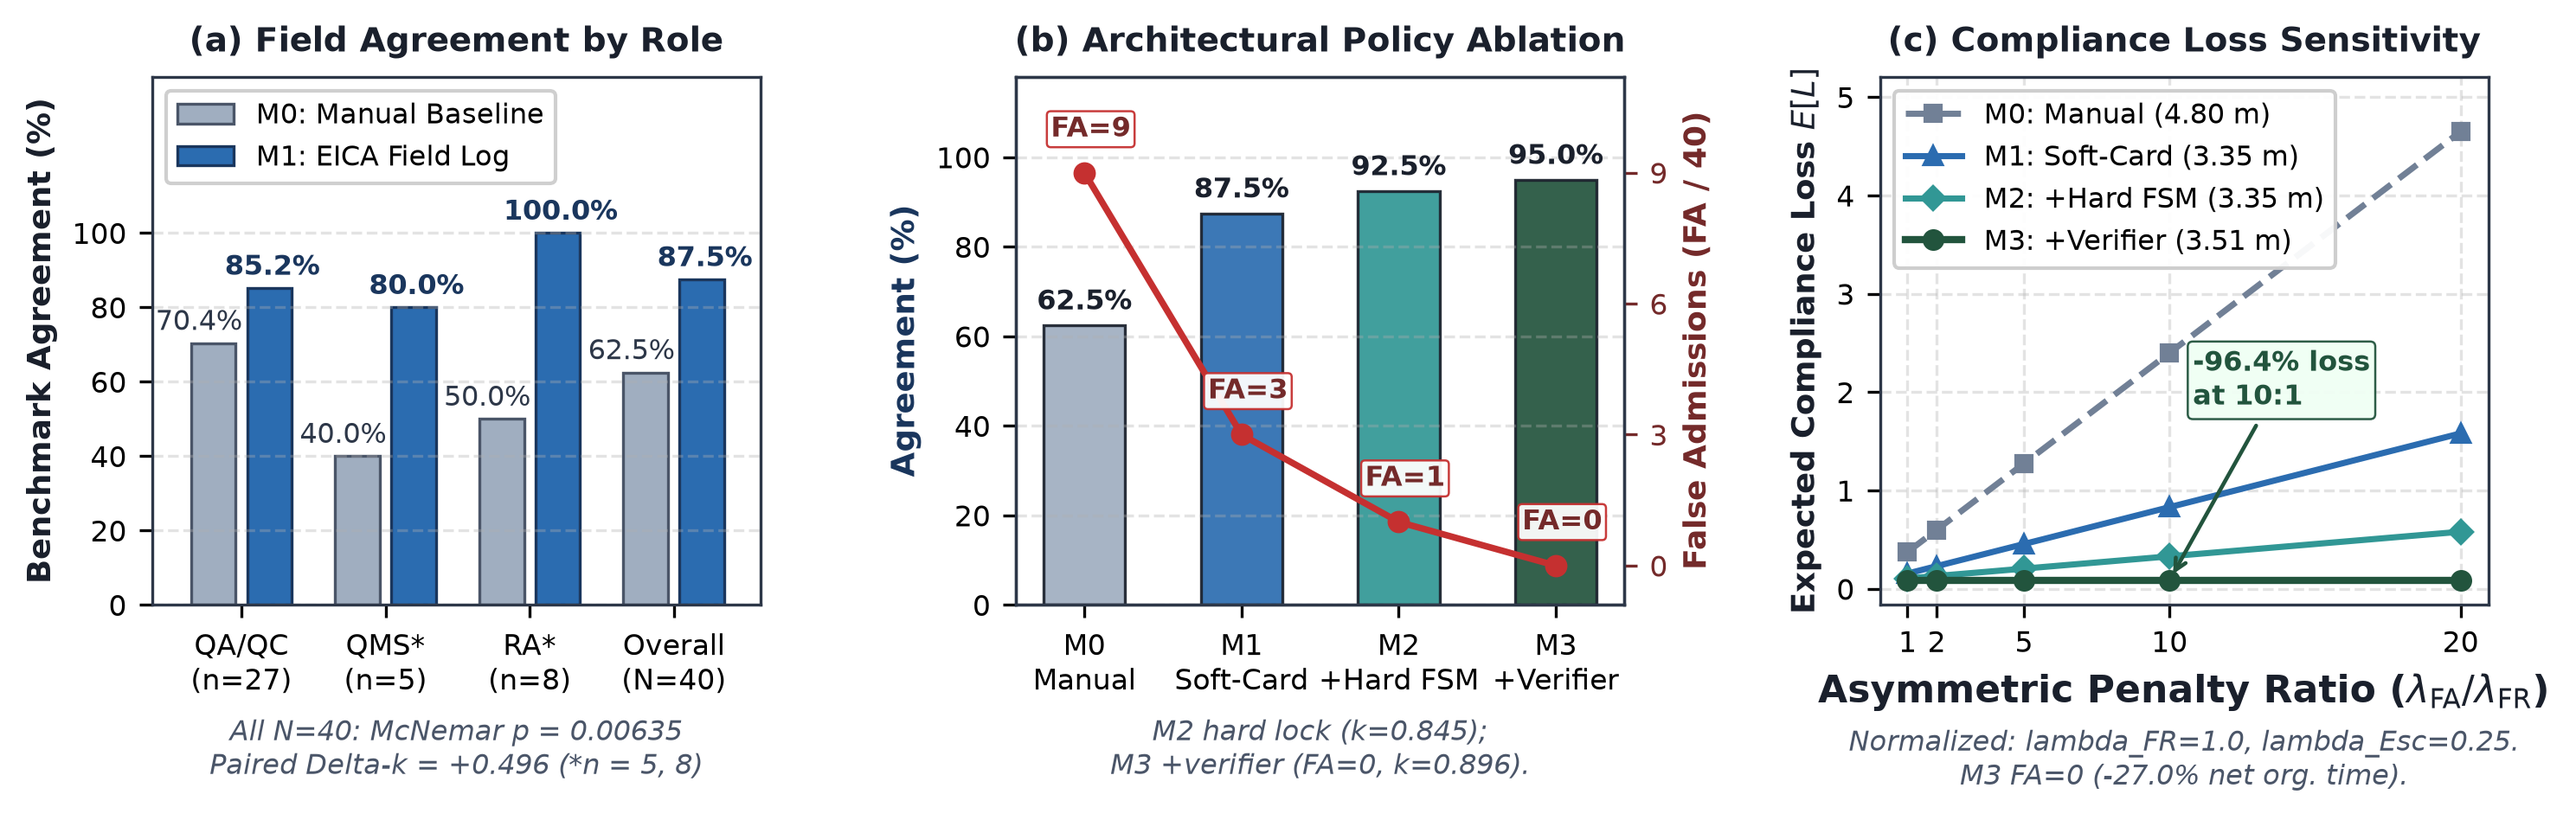
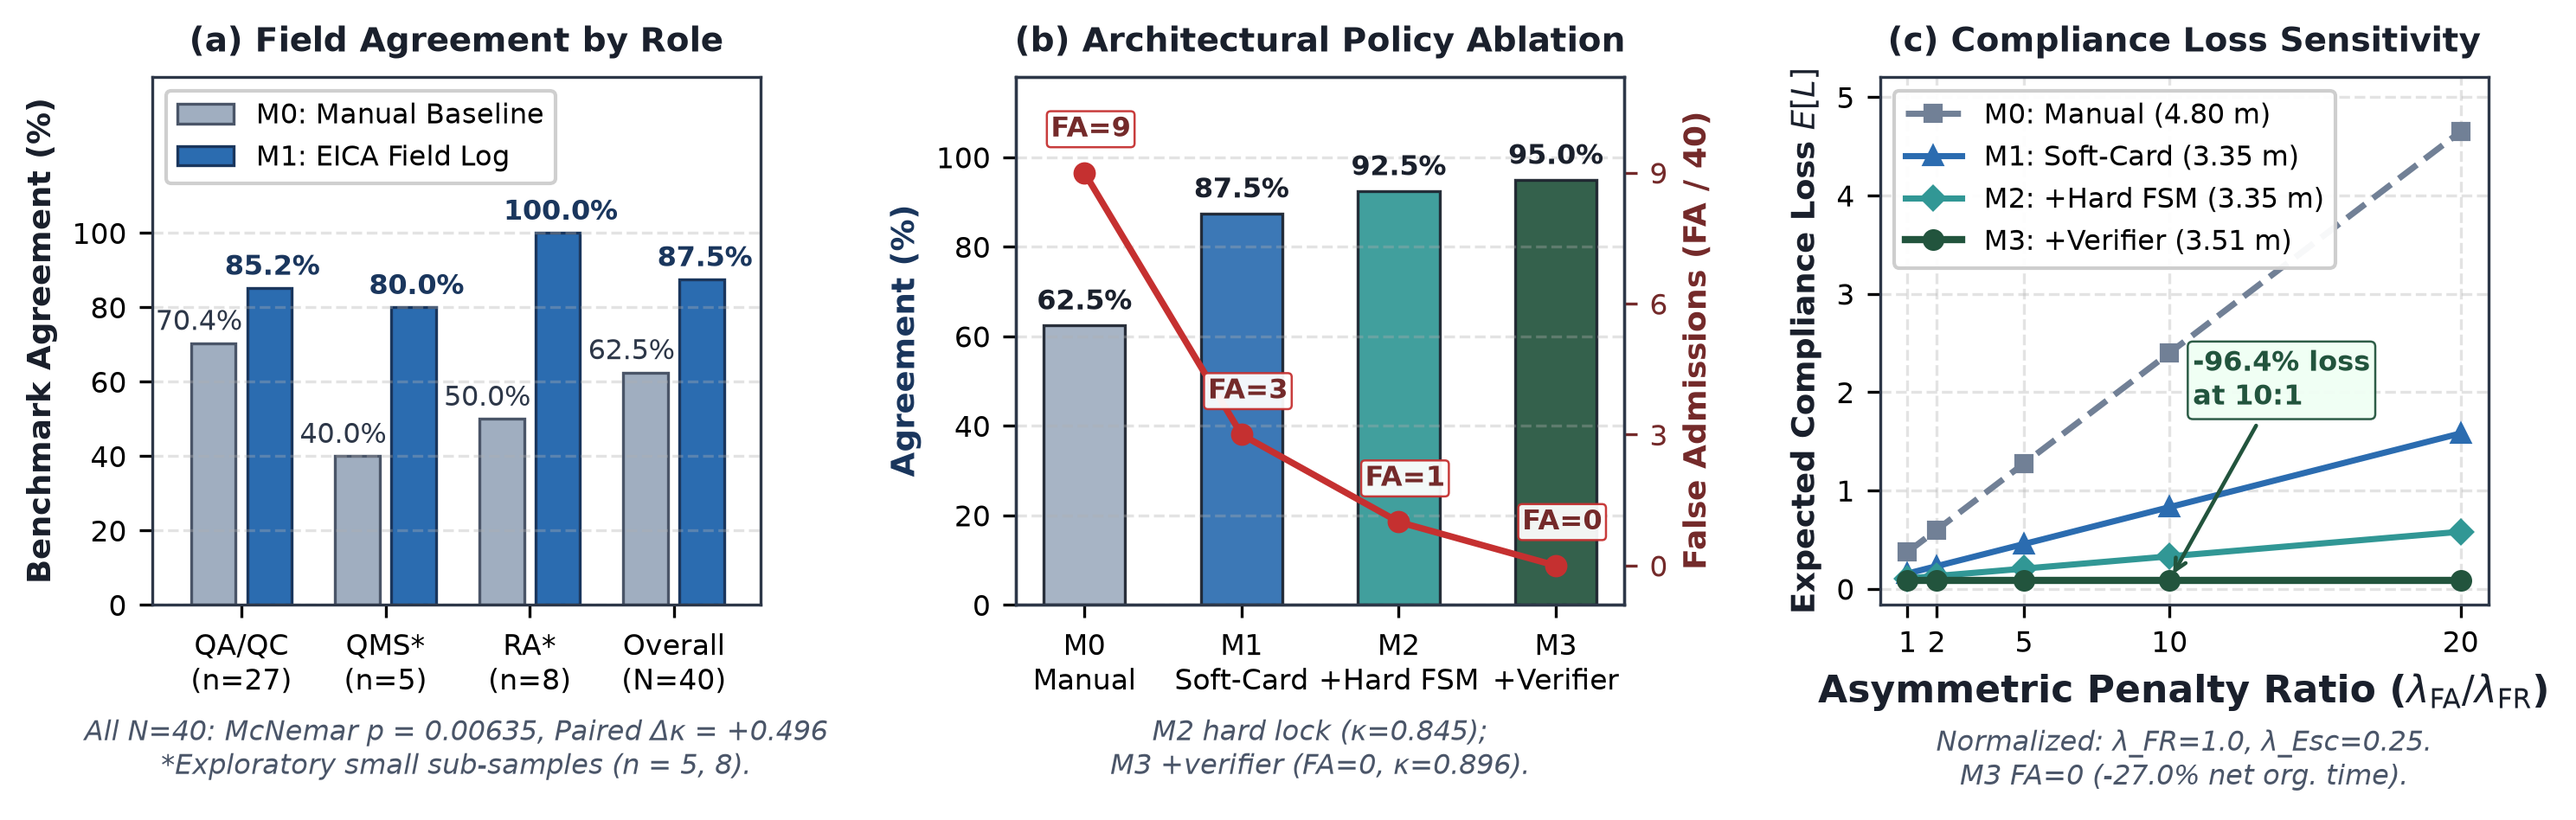
Fix figure annotations (M76/N93), Proposition 1 proof (N94), standalone vllm_config path (N95), and paper_9p/ refs in code

Changed region(s): [[0.0312, 0.8565, 0.3124, 0.9483], [0.7185, 0.8871, 0.8435, 0.9177], [0.8747, 0.8871, 0.9684, 0.9177]]

diff --git a/tests/e2e_suite/e2e_helpers.py b/tests/e2e_suite/e2e_helpers.py
@@ -3,9 +3,9 @@
 Shared Non-Destructive Helpers & Telemetry Analyzers for the 4-Tier E2E Suite.
 
 Design guarantees:
-  - Strictly read-only against code/data/, code/src/, paper/, Templates/, docs.
-  - Compiles paper/main.tex via `tectonic --keep-logs -o <tmp_dir>` inside a temp dir.
-  - Runs code/reproduce_all.py inside an isolated temp copy of code/ + paper/figures/.
+  - Strictly read-only against code/data/, code/src/, paper_9p/, Templates/, docs.
+  - Compiles paper_9p/main.tex via `tectonic --keep-logs -o <tmp_dir>` inside a temp dir.
+  - Runs code/reproduce_all.py inside an isolated temp copy of code/ + paper_9p/figures/.
   - Uses `with fitz.open(...) as doc:` and Windows `onexc` write-bit clearing to prevent
     WinError 32 / WinError 5 cleanup issues.
   - Caches isolated tectonic and reproduce_all runs once per process via lru_cache.
@@ -38,14 +38,14 @@ except ImportError:  # pragma: no cover
 
 _THIS_CODE_ROOT = Path(__file__).resolve().parents[2]
 _PARENT_ROOT = Path(__file__).resolve().parents[3]
-HAS_FULL_WORKSPACE = (_PARENT_ROOT / "paper" / "main.tex").exists() and (_THIS_CODE_ROOT.name == "code")
+HAS_FULL_WORKSPACE = (_PARENT_ROOT / "paper_9p" / "main.tex").exists() and (_THIS_CODE_ROOT.name == "code")
 STANDALONE_REPLICATION_MODE = not HAS_FULL_WORKSPACE
 
 REPO_ROOT = _PARENT_ROOT if HAS_FULL_WORKSPACE else _THIS_CODE_ROOT
 CODE_DIR = _THIS_CODE_ROOT
 SRC_DIR = CODE_DIR / "src"
 DATA_DIR = CODE_DIR / "data"
-PAPER_DIR = REPO_ROOT / "paper"
+PAPER_DIR = REPO_ROOT / "paper_9p"
 SECTIONS_DIR = PAPER_DIR / "sections"
 PAPER_FIG_DIR = PAPER_DIR / "figures"
 TEMPLATES_DIR = REPO_ROOT / "Templates"
@@ -67,7 +67,7 @@ def requires_full_workspace(test_item):
     """Skip manuscript/LaTeX/Templates-only E2E checks cleanly in standalone replication clones."""
     return unittest.skipUnless(
         HAS_FULL_WORKSPACE,
-        "Skipped in standalone code replication clone (requires full author workspace with paper/, Templates/, and tectonic).",
+        "Skipped in standalone code replication clone (requires full author workspace with paper_9p/, Templates/, and tectonic).",
     )(test_item)
 
 
@@ -162,7 +162,7 @@ class TectonicBuildResult:
 
 @functools.lru_cache(maxsize=1)
 def get_tectonic_build() -> TectonicBuildResult:
-    """Compile paper/main.tex non-destructively into a temp directory once per process."""
+    """Compile paper_9p/main.tex non-destructively into a temp directory once per process."""
     tmp_dir = Path(tempfile.mkdtemp(prefix="eica_tex_"))
     try:
         t0 = time.perf_counter()
@@ -211,7 +211,7 @@ def get_reproduce_run() -> ReproduceRunResult:
     tmp_root = Path(tempfile.mkdtemp(prefix="eica_repro_"))
     try:
         tmp_code = tmp_root / "code"
-        tmp_paper_fig = tmp_root / "paper" / "figures"
+        tmp_paper_fig = tmp_root / "paper_9p" / "figures"
         tmp_code.mkdir(parents=True, exist_ok=True)
         tmp_paper_fig.mkdir(parents=True, exist_ok=True)
         (tmp_code / "output").mkdir(parents=True, exist_ok=True)

diff --git a/src/plot_figures.py b/src/plot_figures.py
@@ -350,8 +350,8 @@ def plot_fig2_results(csv_path="../data/eval_records_40.csv", out_pdf="fig2_resu
 
     ax1.text(
         0.5, -0.32,
-        f"All N=40: McNemar p = {s['mcnemar_p']:.5f}\n"
-        f"Paired Delta-k = {m['kappa']['delta']:+.3f} (*n = {qms['N']}, {ra['N']})",
+        f"All N={m['N']}: McNemar p = {s['mcnemar_p']:.5f}, Paired \u0394\u03ba = {m['kappa']['delta']:+.3f}\n"
+        f"*Exploratory small sub-samples (n = {qms['N']}, {ra['N']}).",
         transform=ax1.transAxes, ha="center", fontsize=7.8, fontstyle="italic", color=COLOR_TEXT_MUTED,
     )
 
@@ -443,8 +443,8 @@ def plot_fig2_results(csv_path="../data/eval_records_40.csv", out_pdf="fig2_resu
     m3 = abl["M3_EICA_FullVerifier"]
     ax2.text(
         0.5, -0.32,
-        f"M2 hard lock (k={m2['kappa']:.3f});\n"
-        f"M3 +verifier (FA={m3['FP']}, k={m3['kappa']:.3f}).",
+        f"M2 hard lock (\u03ba={m2['kappa']:.3f});\n"
+        f"M3 +verifier (FA={m3['FP']}, \u03ba={m3['kappa']:.3f}).",
         transform=ax2.transAxes, ha="center", fontsize=7.8, fontstyle="italic", color=COLOR_TEXT_MUTED,
     )
 
@@ -580,7 +580,7 @@ def plot_fig2_results(csv_path="../data/eval_records_40.csv", out_pdf="fig2_resu
 
     ax3.text(
         0.5, -0.34,
-        f"Normalized: lambda_FR=1.0, lambda_Esc=0.25.\n"
+        f"Normalized: \u03bb_FR=1.0, \u03bb_Esc=0.25.\n"
         f"M3 FA={m3['FP']} ({-m3['net_time_reduction_pct']:+.1f}% net org. time).",
         transform=ax3.transAxes, ha="center", fontsize=7.8, fontstyle="italic", color=COLOR_TEXT_MUTED,
     )
@@ -602,7 +602,8 @@ if __name__ == "__main__":
     f2_png = _out_dir / "fig2_results.png"
     plot_fig1_architecture(str(f1_pdf), str(f1_png))
     plot_fig2_results(str(_csv_default), str(f2_pdf), str(f2_png))
-    _paper_fig = _code_dir.parent / "paper" / "figures"
-    if _paper_fig.exists():
-        for _src in (f1_pdf, f1_png, f2_pdf, f2_png):
-            shutil.copy2(_src, _paper_fig / _src.name)
+    for _fig_dir_name in ("paper_4p", "paper_9p"):
+        _paper_fig = _code_dir.parent / _fig_dir_name / "figures"
+        if _paper_fig.exists():
+            for _src in (f1_pdf, f1_png, f2_pdf, f2_png):
+                shutil.copy2(_src, _paper_fig / _src.name)

diff --git a/reproduce_all.py b/reproduce_all.py
@@ -27,7 +27,11 @@ CODE_DIR = Path(__file__).resolve().parent
 SRC_DIR = CODE_DIR / "src"
 DATA_DIR = CODE_DIR / "data"
 OUTPUT_DIR = CODE_DIR / "output"
-PAPER_FIG_DIR = CODE_DIR.parent / "paper" / "figures"
+PAPER_FIG_DIR = CODE_DIR.parent / "paper_9p" / "figures"
+PAPER_FIG_DIRS = [
+    CODE_DIR.parent / "paper_4p" / "figures",
+    CODE_DIR.parent / "paper_9p" / "figures",
+]
 OUTPUT_DIR.mkdir(parents=True, exist_ok=True)
 sys.path.insert(0, str(SRC_DIR))
 
@@ -180,11 +184,12 @@ def main():
     plot_fig1_architecture(str(fig1_pdf), str(fig1_png))
     plot_fig2_results(eval_csv, str(fig2_pdf), str(fig2_png))
 
-    # Sync freshly generated figures to paper/figures/
-    if PAPER_FIG_DIR.exists():
-        for src in (fig1_pdf, fig1_png, fig2_pdf, fig2_png):
-            shutil.copy2(src, PAPER_FIG_DIR / src.name)
-        print(f"  - Synced updated vector PDFs & 300-DPI PNGs to {PAPER_FIG_DIR}")
+    # Sync freshly generated figures to paper_4p/figures/ and paper_9p/figures/
+    for fig_dir in PAPER_FIG_DIRS:
+        if fig_dir.exists():
+            for src in (fig1_pdf, fig1_png, fig2_pdf, fig2_png):
+                shutil.copy2(src, fig_dir / src.name)
+            print(f"  - Synced updated vector PDFs & 300-DPI PNGs to {fig_dir}")
 
     all_passed, n_checks = verify_in_text_alignment(
         metrics, stats, ablation, stress, comp_ablations=comp_ablations, sens_sweep=sens_sweep

diff --git a/tests/e2e_suite/test_tier4_submission_scenarios.py b/tests/e2e_suite/test_tier4_submission_scenarios.py
@@ -189,7 +189,7 @@ class TestTier4SubmissionScenarios(unittest.TestCase):
             ("README.md", root_rm),
             ("code/README.md", code_rm),
             ("RESPONSE_LETTER_AICS2026.md", rl_txt),
-            ("paper/", paper_txts),
+            ("paper_9p/", paper_txts),
         ]:
             self.assertNotIn("Qwen3.8-27B", txt, f"Stale Qwen3.8-27B found in {label}")
         for label, txt in [("README.md", root_rm), ("code/README.md", code_rm), ("RESPONSE_LETTER_AICS2026.md", rl_txt)]:
@@ -201,7 +201,7 @@ class TestTier4SubmissionScenarios(unittest.TestCase):
         self.assertEqual(h.compute_sha256(h.ARCHIVE_CSV_PATH), h.EXPECTED_ARCHIVE_CSV_SHA256)
 
         prebuilt_pdf = h.PAPER_DIR / "main.pdf"
-        self.assertTrue(prebuilt_pdf.exists(), "Tracked paper/main.pdf missing")
+        self.assertTrue(prebuilt_pdf.exists(), "Tracked paper_9p/main.pdf missing")
         pre_tel = h.analyze_pdf_file(prebuilt_pdf)
         fresh_tel = h.analyze_pdf_bytes(h.get_tectonic_build().pdf_bytes)
 

diff --git a/tests/e2e_suite/test_tier1_requirements_compliance.py b/tests/e2e_suite/test_tier1_requirements_compliance.py
@@ -28,12 +28,12 @@ import tempfile
 import unittest
 from pathlib import Path
 
-import fitz
-
 try:
     from . import e2e_helpers as h
 except ImportError:
     import e2e_helpers as h
+
+fitz = h.fitz
 
 
 class TestTier1F1ReproductionAndCsv(unittest.TestCase):
@@ -464,7 +464,7 @@ class TestTier1F4CrossArtifactParity(unittest.TestCase):
             ("README.md", root_rm),
             ("code/README.md", code_rm),
             ("RESPONSE_LETTER_AICS2026.md", rl_txt),
-            ("paper/", paper_txts),
+            ("paper_9p/", paper_txts),
         ]:
             self.assertNotIn("Qwen3.8-27B", txt, f"Stale Qwen3.8-27B reference found in {label}")
         stale_unit_re = r"(?i)(?<!\d)(?:47|52|53|54|55|56|58)(?:`|\*|\s)*(?:项|件|std|unit|/)"

diff --git a/tests/e2e_suite/test_tier3_cross_feature.py b/tests/e2e_suite/test_tier3_cross_feature.py
@@ -176,7 +176,7 @@ class TestTier3CrossFeature(unittest.TestCase):
         self.assertEqual(rep.returncode, 0)
         with tempfile.TemporaryDirectory(prefix="eica_t306_") as td:
             td_p = Path(td)
-            paper_copy = td_p / "paper"
+            paper_copy = td_p / "paper_9p"
             shutil.copytree(h.PAPER_DIR, paper_copy)
             (paper_copy / "figures" / "fig1_architecture.pdf").write_bytes(rep.fig1_pdf_bytes)
             (paper_copy / "figures" / "fig2_results.pdf").write_bytes(rep.fig2_pdf_bytes)

diff --git a/tests/e2e_suite/run_e2e_suite.py b/tests/e2e_suite/run_e2e_suite.py
@@ -35,7 +35,7 @@ TIER_MODULES: Dict[str, str] = {
 
 
 def check_reference_urls(timeout_sec: float = 8.0) -> Dict[str, object]:
-    """Optional live HTTP/Crossref check for DOIs/URLs in paper/main.tex (only with --check-urls)."""
+    """Optional live HTTP/Crossref check for DOIs/URLs in paper_9p/main.tex (only with --check-urls)."""
     import urllib.parse
     from e2e_suite import e2e_helpers as h
 

diff --git a/tests/e2e_suite/test_tier2_boundary_cases.py b/tests/e2e_suite/test_tier2_boundary_cases.py
@@ -24,12 +24,12 @@ import tempfile
 import unittest
 from pathlib import Path
 
-import fitz
-
 try:
     from . import e2e_helpers as h
 except ImportError:
     import e2e_helpers as h
+
+fitz = h.fitz
 
 
 class TestTier2F1MetricsAndStatsBoundaries(unittest.TestCase):

diff --git a/docs/proofs.md b/docs/proofs.md
@@ -38,8 +38,8 @@ Runtime enforcement is governed unconditionally by the deterministic finite-stat
 **Proof.**
 1. **Compile-time schema omission.** `OntologySchemaMasker.compile_generation_schema(role)` emits a strict JSON Schema (`additionalProperties: false`) whose `req_id` enumeration contains only $R_{\mathrm{ext}} = \{r \in R : \tau(r) \in \{\mathrm{M}, \mathrm{P}\}\}$, structurally omitting $R_{\mathrm{V}}$ and omitting all scalar score or ranking fields (`overall_fit_score`, `rank`, `score`, `fit_score`).
 2. **Host-side top-level and entry-level projection.** Regardless of whether an unconstrained or adversarial extractor violates the JSON Schema, `OntologySchemaMasker.enforce_mask_and_validate(raw_card, role)` projects the top-level dictionary strictly onto `{"candidate_id", "role", "entries"}`, stripping any top-level scalar keys while recording mask-audit flags $\mathcal{F}_{\mathrm{mask}}$. Each surviving entry dictionary is reconstructed strictly over the 6 whitelisted schema fields (`req_id`, `tier`, `evidence`, `anchor_lines`, `status`, `claim_text`), eliminating any entry-nested score or ranking keys.
-3. **Deterministic Tier-$\mathrm{V}$ blanking.** Any injected payload targeting $r \in R_{\mathrm{V}}$ triggers `TACIT_EXTRAPOLATION_BLOCKED` in $\mathcal{F}_{\mathrm{mask}}$ and is replaced by an empty entry with `evidence = ""`, `anchor_lines = []`, `status = None` ($\sigma = \varnothing$).
-4. **Verifier & FSM closure.** In Stage 2b (`DeterministicVerifier.verify_card`, Algorithm 1 lines 7–8), any non-blank Tier-$\mathrm{V}$ slot (including tampered `claim_text` or `status`) is deterministically reset to $\sigma^*(c, r) = \varnothing$ with `TACIT_EXTRAPOLATION_BLOCKED` appended to $\mathcal{F}(c)$. In Stage 3 (`FSMDecisionGate.step`), `Adjust` restricts status mutations exclusively to $r \in R_{\mathrm{ext}}$ (`tier in ("M", "P")`). Hence no transition or payload can produce a surviving score/ranking key or a non-blank Tier-$\mathrm{V}$ status. $\blacksquare$
+3. **Deterministic Tier-$\mathrm{V}$ blanking.** Any injected payload targeting $r \in R_{\mathrm{V}}$ triggers `TACIT_EXTRAPOLATION_BLOCKED` in $\mathcal{F}_{\mathrm{mask}}$ during Stage 1 masking (`OntologySchemaMasker.enforce_mask_and_validate`, `src/eica_engine.py:149`) and is replaced by an empty entry with `evidence = ""`, `anchor_lines = []`, `status = None` ($\sigma = \varnothing$).
+4. **Verifier & FSM closure.** In Stage 2b (`DeterministicVerifier.verify_card`, `src/eica_engine.py:1227`; Algorithm 1 line 5 in the 4-page edition, lines 7–8 in the 9-page edition), any non-blank Tier-$\mathrm{V}$ slot (including tampered `claim_text` or `status`) is deterministically reset to $\sigma^*(c, r) = \varnothing$ with `TACIT_EXTRAPOLATION_BLOCKED` (abbreviated `TACIT_BLOCKED` in the 4-page Algorithm 1 line 5) appended to $\mathcal{F}(c)$. In Stage 3 (`FSMDecisionGate.step`), `Adjust` restricts status mutations exclusively to $r \in R_{\mathrm{ext}}$ (`tier in ("M", "P")`). Hence no transition or payload can produce a surviving score/ranking key or a non-blank Tier-$\mathrm{V}$ status. $\blacksquare$
 
 ---
 

diff --git a/prompts/eica_extraction_reference_prompt.md b/prompts/eica_extraction_reference_prompt.md
@@ -1,7 +1,7 @@
 # EICA Constrained Extraction — Reference Prompt Template (`LLMExtract`)
 
 > **Provenance & Disclosure Notice:**  
-> The historical Chinese production prompt deployed inside the partner medical device manufacturer (Jan. 2025–Jun. 2026) incorporates proprietary internal SOP phrasing and is withheld under enterprise confidentiality and China PIPL governance controls. This file provides an **open English Reference Prompt Template** faithfully reproducing the exact structural, ontological, RAG-binding, and schema-masking constraints of **Algorithm 1 (`LLMExtract`, Section III)** for open-science inspection and local vLLM reproduction (`code/vllm_config.yaml`).
+> The historical Chinese production prompt deployed inside the partner medical device manufacturer (Jan. 2025–Jun. 2026) incorporates proprietary internal SOP phrasing and is withheld under enterprise confidentiality and China PIPL governance controls. This file provides an **open English Reference Prompt Template** faithfully reproducing the exact structural, ontological, RAG-binding, and schema-masking constraints of **Algorithm 1 (`LLMExtract`, Section III)** for open-science inspection and local vLLM reproduction ([`vllm_config.yaml`](../vllm_config.yaml); `code/vllm_config.yaml` in the full workspace).
 
 ---
 
@@ -46,7 +46,7 @@ Return a single JSON object matching the compiled EICA JSON Schema (exact keys: 
 
 ---
 
-## 3. Decoding & Serving Binding (`code/vllm_config.yaml`)
+## 3. Decoding & Serving Binding (`../vllm_config.yaml`)
 
 - **Model:** `Qwen/Qwen2.5-32B-Instruct` (4-bit AWQ; exact Jan. 2025 enterprise local checkpoint SHA was not archived in production logs)
 - **Serving Parameters:** `temperature=0.0`, `seed=42`, `max_tokens=2048`, `max_model_len=8192`, `batch_size=1`, `retry <= 2`

diff --git a/README.md b/README.md
@@ -90,7 +90,7 @@ python -m unittest tests.test_eica_unit -v
 # 3. Run E2E verification suite (standalone code/data subset on public clone; full 141/141 in complete manuscript workspace)
 python tests/e2e_suite/run_e2e_suite.py --tier all --verbose
 ```
-Upon executing `python reproduce_all.py`, the script verifies all datasets, executes trace-driven M0–M3 ablations, $N_{\mathrm{syn}}=200$ stress-tests, component-off ablations, and sensitivity sweeps, regenerates `fig1_architecture` (Figure 1) and `fig2_results` (Figure 3, alongside Figure 2 = Algorithm 1 in the paper), and validates **42 automated audit checks (42/42 MATCH 100%)**. Note: in standalone clones of this replication repository (where manuscript LaTeX sources `paper/` and `Templates/` are not bundled), `run_e2e_suite.py` automatically runs all code, CSV, engine, and ablation E2E checks using cross-platform LF-normalized SHA-256 verification and cleanly skips manuscript/Tectonic-only checks with 0 failures and 0 errors.
+Upon executing `python reproduce_all.py`, the script verifies all datasets, executes trace-driven M0–M3 ablations, $N_{\mathrm{syn}}=200$ stress-tests, component-off ablations, and sensitivity sweeps, regenerates `fig1_architecture` (Figure 1) and `fig2_results` (Figure 3, alongside Figure 2 = Algorithm 1 in the paper), and validates **42 automated audit checks (42/42 MATCH 100%)**. Note: in standalone clones of this replication repository (where manuscript LaTeX sources `paper_4p/`, `paper_9p/`, and `Templates/` are not bundled), `run_e2e_suite.py` automatically runs all code, CSV, engine, and ablation E2E checks using cross-platform LF-normalized SHA-256 verification and cleanly skips manuscript/Tectonic-only checks with 0 failures and 0 errors.
 
 ---
 
